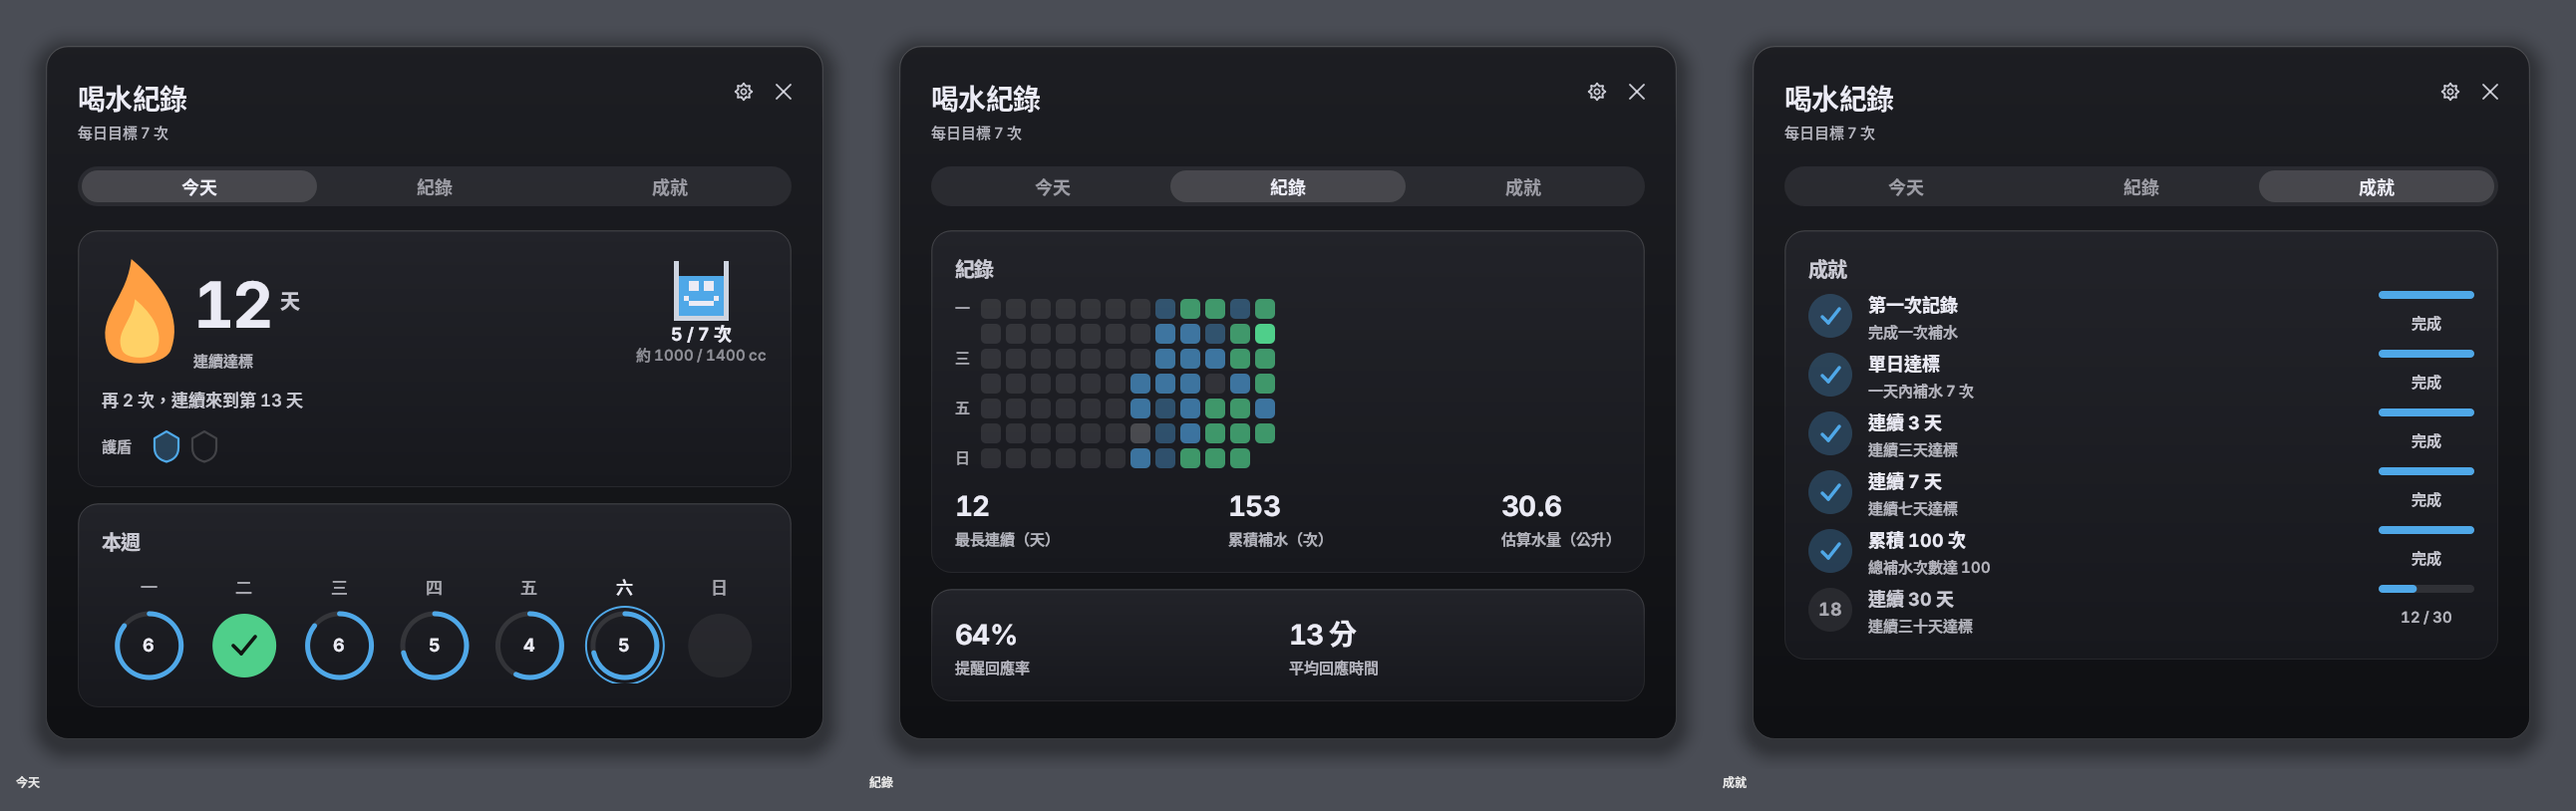
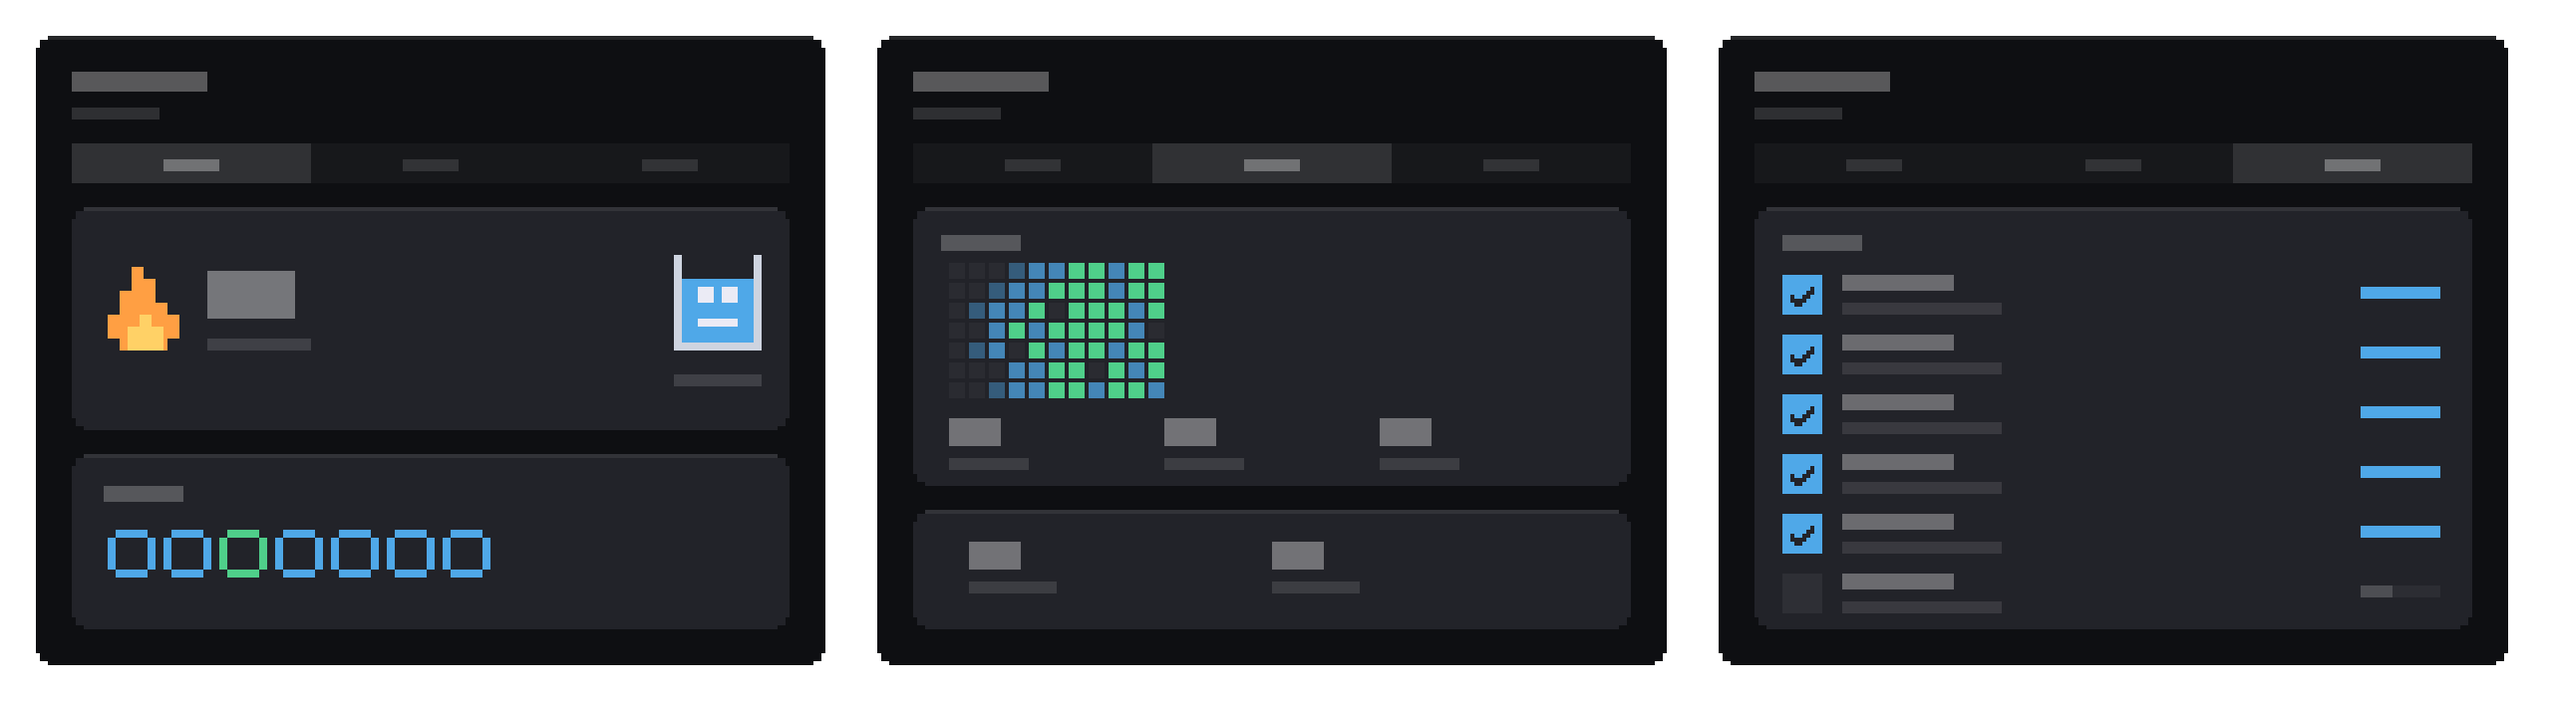
Draw the stats window instead of screenshotting it
紀錄視窗的示意圖改成像素風插畫

原本那張是三個視窗的真實截圖。在 GitHub 上大概 800px 寬，一個視窗只剩 260px，
裡面每一行字都在 4px 高——那些文字沒有人讀得到，它們只是雜訊。而且改一個標籤
（例如護盾那列多一行「已消耗」）截圖就過期，沒有人會發現。

畫插畫不違反 make_demo.py 立的那條規矩。那條針對的是「看起來像截圖的假圖」
——重畫一套很像的島，正式版一改宣傳圖就開始說謊。像素風不一樣，它一眼就宣告
自己是插畫，而它要傳達的（三個分頁、今天有進度、紀錄有熱圖、成就有清單）
是不會變的結構。畫風跟 demo.webp 的桌布同一套。

圖上一個字都不放。分頁叫什麼由 USAGE.md 的圖說負責，圖上再寫一次是重複，
而且中文字縮到這個尺寸就是糊掉的一團。杯子是真的，pixelface.draw_cup()。

形狀用字串圖形寫，跟 pixelface.FACES 同一套。用座標算火焰跟勾勾的話，改一次
就要重算一次；寫成字串是看著就知道長什麼樣——第一版的火焰是上下對稱的六列，
出來是一顆橘色的球，換成字串之後一眼就看得出少了尖端。

順帶把 make_social_demo.py 補進 DEVELOPMENT.md 的建置清單（之前漏了）。

diff --git a/tools/make_stats_illustration.py b/tools/make_stats_illustration.py
@@ -1,0 +1,259 @@
+# -*- coding: utf-8 -*-
+"""產生使用說明裡的紀錄視窗示意圖 —— docs/stats-window.png。
+
+## 為什麼不用截圖
+
+原本那張是三個視窗的真實截圖。在 GitHub 上大概 800px 寬，一個視窗只剩 260px，
+裡面每一行字都在 4px 高——**那些文字沒有人讀得到，它們只是雜訊**。
+而且每次改一個標籤（例如護盾那列多一行「已消耗」）截圖就過期，沒有人會發現。
+
+## 為什麼可以畫，不怕說謊
+
+`make_demo.py` 立過一條規矩：重畫一套「看起來很像」的島，只要正式版改了樣子，
+宣傳圖就會開始說謊。那條規矩針對的是**看起來像截圖的假圖**。
+
+像素風不一樣——它一眼就宣告自己是插畫，不會有人拿它當「介面實際長這樣」。
+它要傳達的只有結構：三個分頁、今天有進度、紀錄有熱圖、成就有清單。
+那些是不會變的東西。
+
+畫風跟 `docs/demo.webp` 的桌布同一套（`onboard.IslandPreview._build_wallpaper`
+的理由：螢幕裡站的是一隻像素杯子，配上平滑的東西就變成兩種畫風貼在一起）。
+
+## 一個字都不放
+
+分頁叫什麼由 `USAGE.md` 的圖說負責（「三個分頁：今天、紀錄、成就」）。
+圖上再寫一次是重複，而且中文字縮到這個尺寸就是糊掉的一團。
+順序由左到右對應圖說，讀得出來。
+
+杯子是真的——`pixelface.draw_cup()`，跟島上那顆同一份程式。
+
+## 形狀用字串圖形寫
+
+跟 `pixelface.FACES` 同一套寫法。用座標算火焰跟勾勾，改一次就要重算一次；
+寫成字串是**看著就知道長什麼樣**，而這張圖唯一的工作就是形狀。
+
+用法：python tools/make_stats_illustration.py
+"""
+import os
+import sys
+
+from PySide6.QtCore import QRect, Qt
+from PySide6.QtGui import QColor, QImage, QPainter
+from PySide6.QtWidgets import QApplication
+
+ROOT = os.path.dirname(os.path.dirname(os.path.abspath(__file__)))
+sys.path.insert(0, os.path.join(ROOT, "src"))
+
+import pixelface  # noqa: E402
+import theme  # noqa: E402
+
+OUT = os.path.join(ROOT, "docs", "stats-window.png")
+
+# 先畫小的再放大，跟桌布同一個做法：放大用最近鄰，像素邊緣才不會被抹糊。
+# 直接畫大的話每個「像素」都是真的一像素，那就只是一張普通的向量圖。
+SCALE = 4
+W, H = 640, 176
+
+MARGIN, GAP = 9, 13
+WIN_W = (W - MARGIN * 2 - GAP * 2) // 3
+WIN_H = H - MARGIN * 2
+
+# 視窗的圓角。像素風的圓角是階梯狀的，每一列往內縮幾格寫死在這裡。
+CORNER = (3, 1, 1)
+
+# 火焰要有尖端才讀得出是火。第一版是上下對稱的六列，出來是一顆橘色的球。
+FLAME = (
+    "..#...",
+    "..##..",
+    ".###..",
+    ".####.",
+    "######",
+    "######",
+    ".####.",
+)
+FLAME_CORE = (
+    "..#..",
+    ".###.",
+    ".###.",
+)
+# 圓環：八角形，四個角各切一格。畫成方形在這個尺寸下看起來就是方形。
+RING = (
+    ".####.",
+    "#....#",
+    "#....#",
+    "#....#",
+    "#....#",
+    ".####.",
+)
+CHECK = (
+    ".....#",
+    "....##",
+    "#..##.",
+    "####..",
+    ".##...",
+)
+
+
+def px(p, x, y, w, h, color):
+    p.fillRect(QRect(int(x), int(y), int(w), int(h)), color)
+
+
+def sprite(p, art, x, y, color, cell=1):
+    """把字串圖形畫出來。`#` 是實心，其餘留空。"""
+    for r, line in enumerate(art):
+        for c, ch in enumerate(line):
+            if ch == "#":
+                px(p, x + c * cell, y + r * cell, cell, cell, color)
+
+
+def bar(p, x, y, w, pal, alpha=40, h=3):
+    """一段代表文字的色塊。畫字會糊，畫塊反而讀得出「這裡有一行字」。"""
+    px(p, x, y, w, h, pal.veil(alpha))
+
+
+def rounded(p, x, y, w, h, color):
+    """階梯圓角的矩形。CORNER 是由外往內每一列要縮掉幾格。"""
+    inset = list(CORNER)
+    px(p, x, y + len(inset), w, h - len(inset) * 2, color)
+    for i, n in enumerate(inset):
+        px(p, x + n, y + i, w - n * 2, 1, color)
+        px(p, x + n, y + h - 1 - i, w - n * 2, 1, color)
+
+
+def window(p, x, y, pal, active_tab):
+    """視窗外殼：外框、標題區、分頁列。三個分頁共用。"""
+    rounded(p, x, y, WIN_W, WIN_H, pal.bg_bottom)
+    px(p, x + CORNER[0], y, WIN_W - CORNER[0] * 2, 1, pal.veil(24))   # 頂緣高光
+
+    bar(p, x + 9, y + 9, 34, pal, 78, h=5)                            # 標題
+    bar(p, x + 9, y + 18, 22, pal, 34)                                # 副標
+
+    seg_y, seg_h = y + 27, 10                                         # 分頁列
+    seg_w = (WIN_W - 18) // 3
+    px(p, x + 9, seg_y, seg_w * 3, seg_h, pal.veil(10))
+    px(p, x + 9 + seg_w * active_tab, seg_y, seg_w, seg_h, pal.veil(28))
+    for i in range(3):
+        bar(p, x + 9 + seg_w * i + seg_w // 2 - 7, seg_y + 4, 14, pal,
+            80 if i == active_tab else 30)
+    return seg_y + seg_h + 6
+
+
+def card(p, x, y, w, h, pal):
+    rounded(p, x, y, w, h, pal.card_top)
+    px(p, x + CORNER[0], y, w - CORNER[0] * 2, 1, pal.veil(18))
+    return y + h + 6
+
+
+def panel_today(p, x, y, pal):
+    """今天：火焰、連續天數、像素杯，下面一排本週的圓環。"""
+    cx, cw = x + 9, WIN_W - 18
+    top = card(p, cx, y, cw, 56, pal)
+
+    sprite(p, FLAME, cx + 9, y + 15, pal.flame, cell=3)
+    sprite(p, FLAME_CORE, cx + 11, y + 27, pal.flame2, cell=3)
+
+    bar(p, cx + 34, y + 16, 22, pal, 96, h=12)                # 大數字
+    bar(p, cx + 34, y + 33, 26, pal, 34)                      # 「連續達標」
+
+    pixelface.draw_cup(p, cx + cw - 18, y + 24, 0.7, pixelface.THIRSTY,
+                       pixelface.GLASS, pixelface.WATER, pixelface.INK,
+                       cell=2, face=True)
+    bar(p, cx + cw - 29, y + 42, 22, pal, 34)                 # 「5 / 7 次」
+
+    card(p, cx, top, cw, 44, pal)                             # 本週也是一張卡
+    bar(p, cx + 8, top + 8, 20, pal, 60, h=4)
+    for i in range(7):
+        # 一格綠色＝那天達標，其餘藍色＝有進度但沒滿。跟真的一樣。
+        sprite(p, RING, cx + 9 + i * 14, top + 19,
+               pal.green if i == 2 else pal.accent, cell=2)
+
+
+def panel_trail(p, x, y, pal):
+    """紀錄：熱圖 ＋ 統計數字。熱圖本來就是格子，最適合像素風。"""
+    cx, cw = x + 9, WIN_W - 18
+    top = card(p, cx, y, cw, 70, pal)
+
+    bar(p, cx + 7, y + 7, 20, pal, 60, h=4)
+    # 12 週 × 7 天，左疏右密——那是一個「越用越常用」的人的樣子。
+    # 手排不用亂數：亂數每次建置都不一樣，而且多半看起來像雜訊。
+    ROWS = (
+        "...12233233",
+        "..122333233",
+        ".1223.33323",
+        "..23233332.",
+        ".12.3233233",
+        "...2233.323",
+        "..122332332",
+    )
+    gx, gy = cx + 9, y + 14
+    TONE = {".": None, "1": 110, "2": 190, "3": 255}
+    for r, line in enumerate(ROWS):
+        for c, ch in enumerate(line):
+            a = TONE[ch]
+            if a is None:
+                col = pal.veil(9)
+            elif ch == "3":
+                col = pal.green
+            else:
+                col = QColor(pal.accent.red(), pal.accent.green(),
+                             pal.accent.blue(), a)
+            px(p, gx + c * 5, gy + r * 5, 4, 4, col)
+
+    for i in range(3):                                        # 三個統計數字
+        sx = cx + 9 + i * ((cw - 18) // 3)
+        bar(p, sx, y + 53, 13, pal, 92, h=7)
+        bar(p, sx, y + 63, 20, pal, 30)
+
+    card(p, cx, top, cw, 30, pal)                             # 回應率那張小卡
+    for i in range(2):
+        sx = cx + 14 + i * ((cw - 28) // 2)
+        bar(p, sx, top + 8, 13, pal, 92, h=7)
+        bar(p, sx, top + 18, 22, pal, 30)
+
+
+def panel_badges(p, x, y, pal):
+    """成就：一列一個勾，最後一列還沒完成。"""
+    cx, cw = x + 9, WIN_W - 18
+    card(p, cx, y, cw, 106, pal)
+    bar(p, cx + 7, y + 7, 20, pal, 60, h=4)
+
+    for i in range(6):
+        ry = y + 16 + i * 15
+        done = i < 5
+        px(p, cx + 7, ry + 1, 10, 10, pal.accent if done else pal.veil(14))
+        if done:
+            sprite(p, CHECK, cx + 9, ry + 4, pal.card_top)
+        bar(p, cx + 22, ry + 1, 28, pal, 84, h=4)
+        bar(p, cx + 22, ry + 8, 40, pal, 26)
+        px(p, cx + cw - 28, ry + 4, 20, 3, pal.veil(12))      # 進度條
+        px(p, cx + cw - 28, ry + 4, 20 if done else 8, 3,
+           pal.accent if done else pal.veil(40))
+
+
+def main():
+    app = QApplication.instance() or QApplication(sys.argv)   # noqa: F841
+    theme.apply("dark")
+    pal = theme.active()
+
+    img = QImage(W, H, QImage.Format_RGBA8888)
+    img.fill(Qt.transparent)
+    p = QPainter(img)
+    p.setRenderHint(QPainter.Antialiasing, False)             # 像素不要被磨圓
+
+    for i, panel in enumerate((panel_today, panel_trail, panel_badges)):
+        x = MARGIN + i * (WIN_W + GAP)
+        panel(p, x, window(p, x, MARGIN, pal, i), pal)
+    p.end()
+
+    big = img.scaled(W * SCALE, H * SCALE, Qt.IgnoreAspectRatio,
+                     Qt.FastTransformation)
+    os.makedirs(os.path.dirname(OUT), exist_ok=True)
+    big.save(OUT)
+    print(f"{OUT}")
+    print(f"  {big.width()}x{big.height()}（{W}x{H} 放大 {SCALE} 倍）  "
+          f"{os.path.getsize(OUT) / 1024:.0f}KB")
+    return 0
+
+
+if __name__ == "__main__":
+    sys.exit(main())

diff --git a/docs/DEVELOPMENT.md b/docs/DEVELOPMENT.md
@@ -46,8 +46,20 @@ python tools/build_font.py       # 合成 assets/fonts 的兩個 OTF
 python tools/make_icon.py        # 產生 assets/icon.ico 與 docs/icon.png
 python tools/make_demo.py        # 產生 docs/demo.webp
 python tools/make_feature_icons.py   # 產生 README 功能區的四個圖示
+python tools/make_stats_illustration.py  # 產生 docs/stats-window.png
+python tools/make_social_demo.py # 產生社群用的 docs/social-laptop.webp 與 .gif
 python tools/time_launch.py      # 量 onefile 與 onedir 的啟動時間
 ```
+
+`docs/` 底下的圖也全部是產物，一樣不該手改。其中兩張刻意畫成像素風而不是截圖：
+
+- **`stats-window.png`** —— 三個分頁的示意圖。截圖在 GitHub 上一個視窗只剩 260px，
+  裡面每一行字都在 4px 高，沒有人讀得到；而且改一個標籤截圖就過期、沒有人會發現。
+- **`social-laptop.webp`** —— 社群貼文用，島的部分是真的 widget 逐幀 grab 的。
+
+畫插畫不違反「宣傳圖不能說謊」那條規矩。那條針對的是**看起來像截圖的假圖**；
+像素風一眼就宣告自己是插畫，而它要傳達的（三個分頁、有熱圖、有成就清單）
+是不會變的結構。
 
 ## 測試
 
